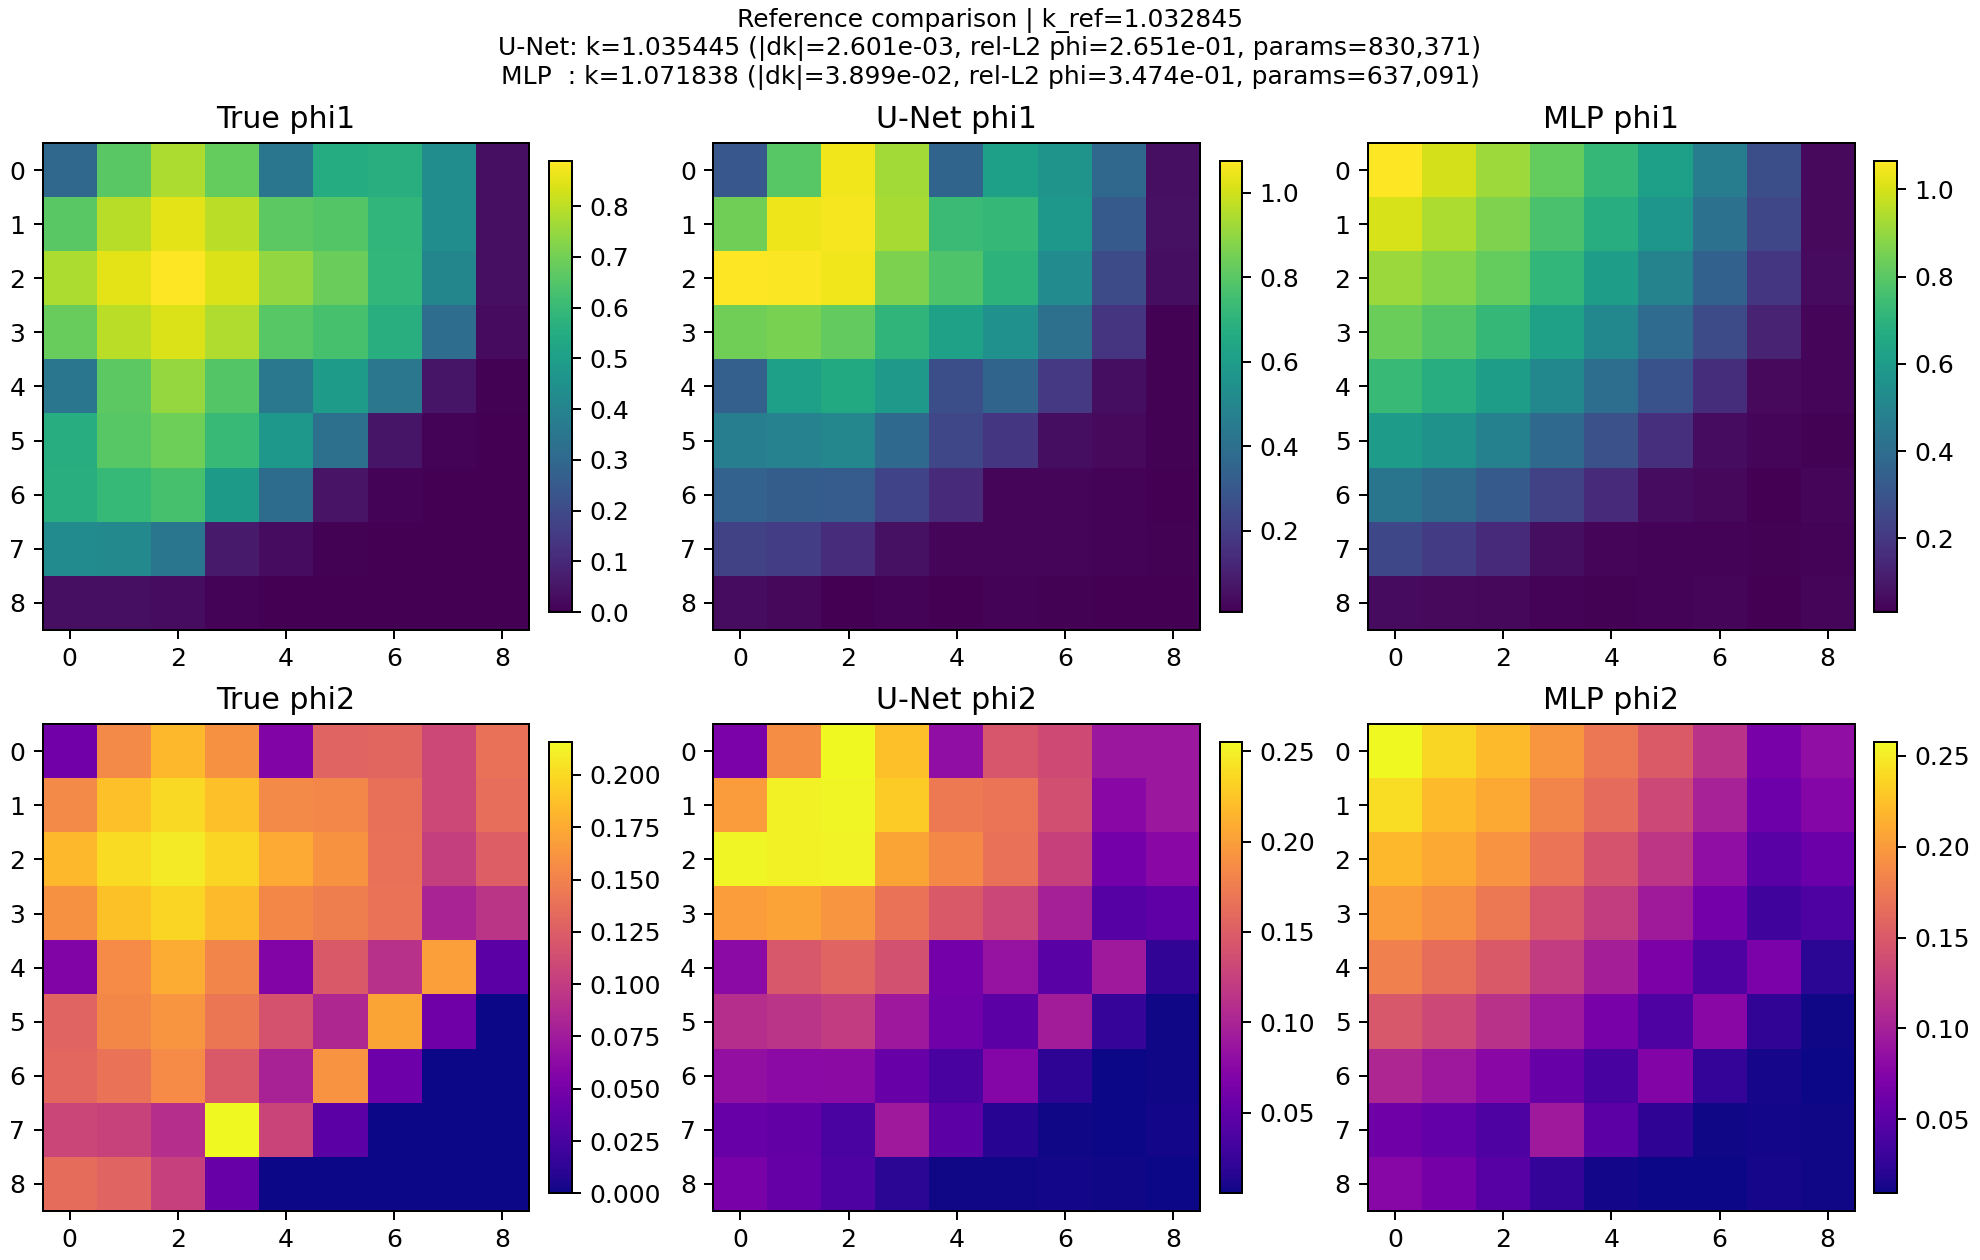
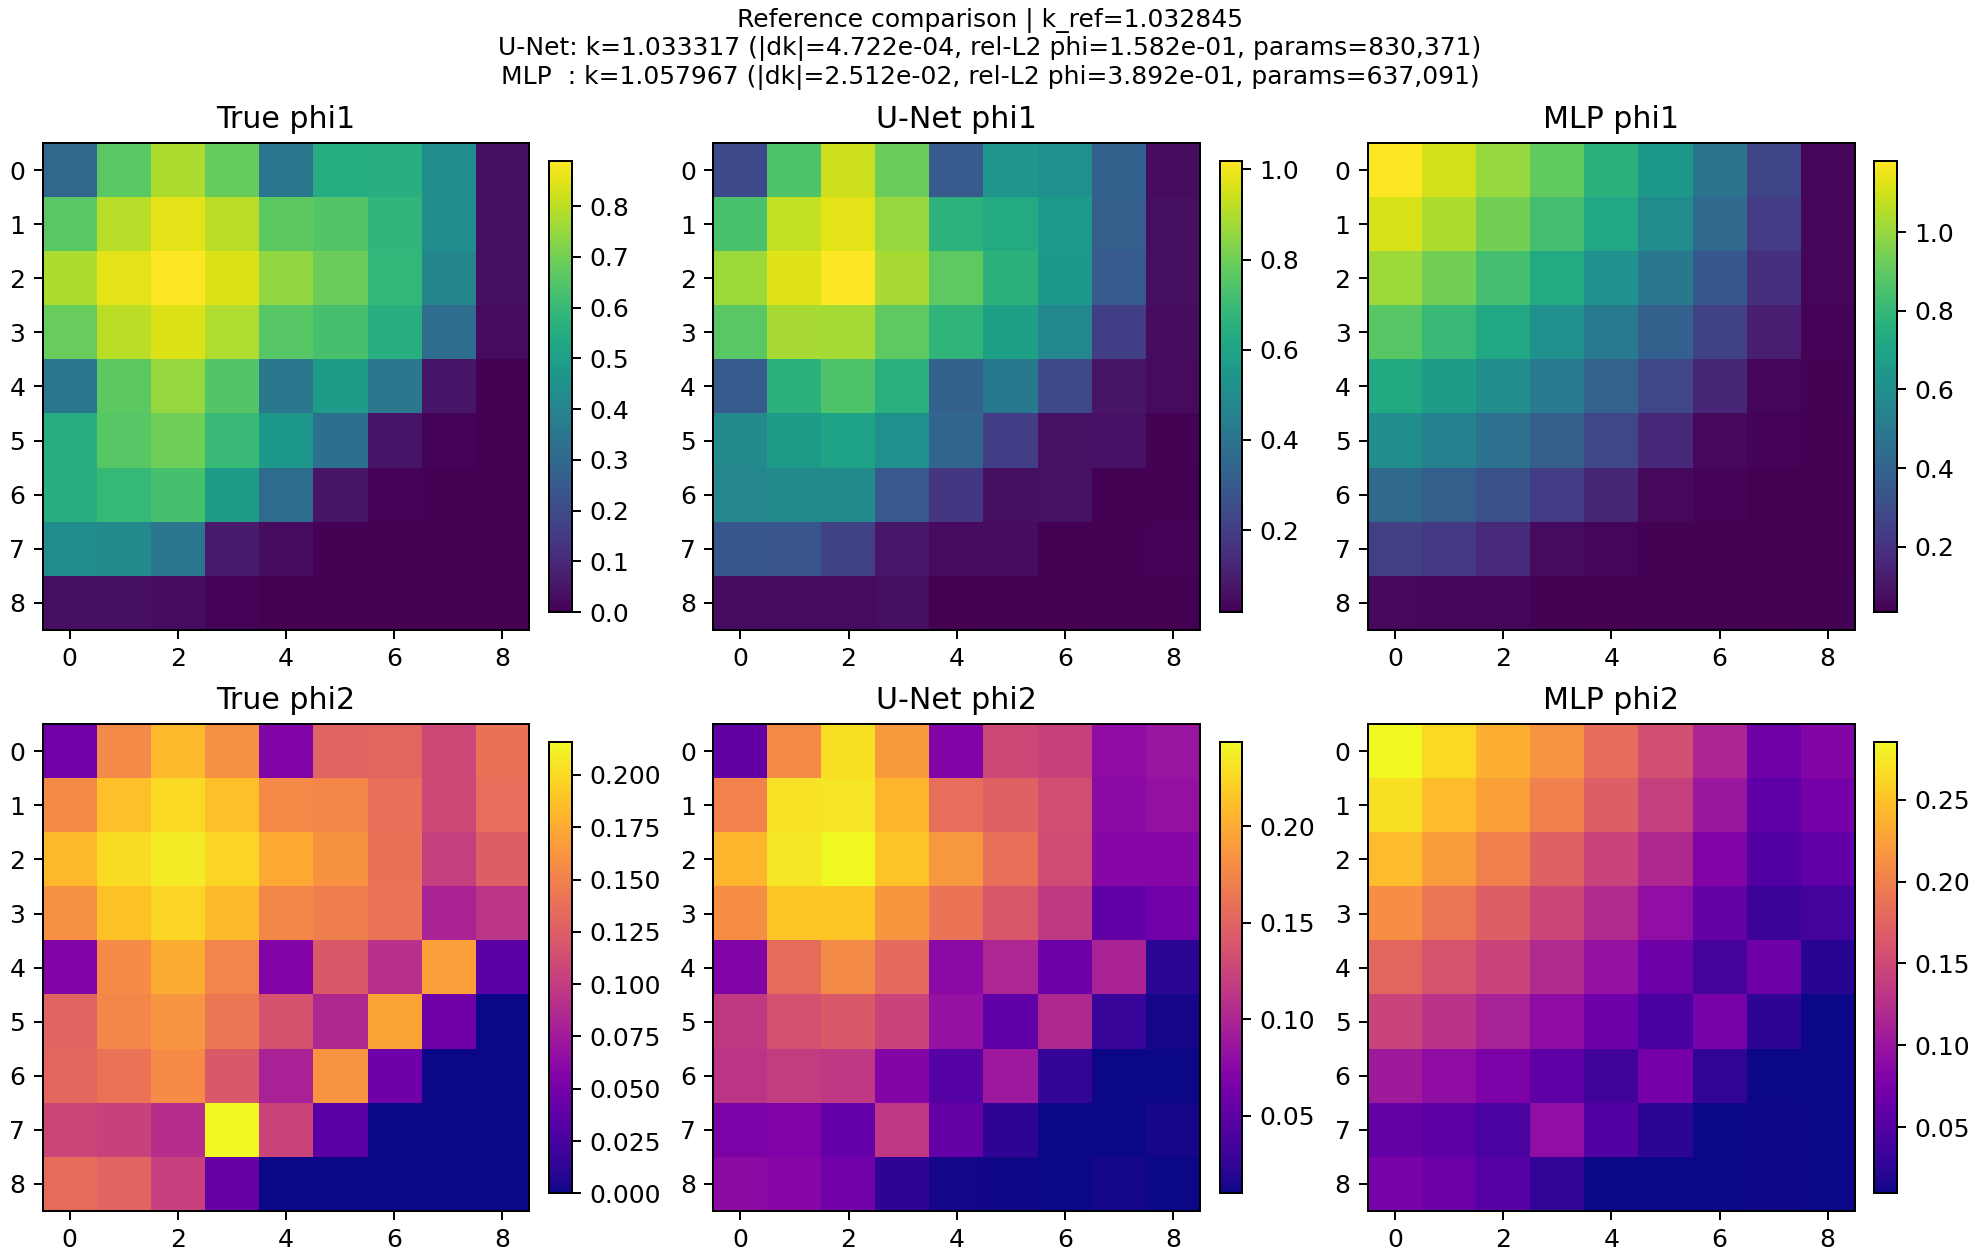
데이터 30k 까지 증량

diff --git a/sweep_keff_weight.py b/sweep_keff_weight.py
@@ -1,0 +1,63 @@
+"""Sweep keff_weight (lambda) under the unit-norm flux loss.
+
+For each lambda in [10, 3, 1], train U-Net from scratch and record:
+- test flux rel-L2 (mean / median / max)
+- test k_eff pcm  (mean / median / max)
+
+User criterion: pick the lambda with the lowest flux rel-L2 mean whose test pcm mean
+stays inside the acceptable window (~< 1000 pcm).
+"""
+
+from __future__ import annotations
+
+import json
+from pathlib import Path
+
+from main import (
+    TrainConfig,
+    build_dataloaders,
+    evaluate_physical,
+    train_model,
+)
+
+
+def run_one(lam: float) -> dict:
+    cfg = TrainConfig(keff_weight=lam)
+    print(f"\n{'=' * 12} keff_weight = {lam} {'=' * 12}")
+    model, norm, _history = train_model(cfg)
+    train_loader, val_loader, test_loader, _ = build_dataloaders(cfg)
+    device = next(model.parameters()).device
+    splits = {}
+    for name, loader in [("train", train_loader), ("val", val_loader), ("test", test_loader)]:
+        splits[name] = evaluate_physical(model, loader, device, norm)
+    return {"lambda": lam, "splits": splits}
+
+
+def main() -> None:
+    lambdas = [10.0, 3.0, 1.0]
+    results = [run_one(lam) for lam in lambdas]
+
+    out_dir = Path(__file__).resolve().parent / "results"
+    out_dir.mkdir(parents=True, exist_ok=True)
+    (out_dir / "lambda_sweep.json").write_text(json.dumps(results, indent=2))
+
+    print("\n" + "=" * 90)
+    print("Lambda sweep summary (unit-norm flux loss)")
+    print("=" * 90)
+    header = (
+        f"{'lambda':>7}  "
+        f"{'test rel-L2 mean':>16} {'med':>8} {'max':>8}  "
+        f"{'test pcm mean':>14} {'med':>10} {'max':>10}"
+    )
+    print(header)
+    for r in results:
+        t = r["splits"]["test"]
+        print(
+            f"{r['lambda']:>7.2f}  "
+            f"{t['flux_rel_l2_mean']:>16.4f} {t['flux_rel_l2_median']:>8.4f} {t['flux_rel_l2_max']:>8.4f}  "
+            f"{t['keff_pcm_mean']:>14.1f} {t['keff_pcm_median']:>10.1f} {t['keff_pcm_max']:>10.1f}"
+        )
+
+
+if __name__ == "__main__":
+    main()